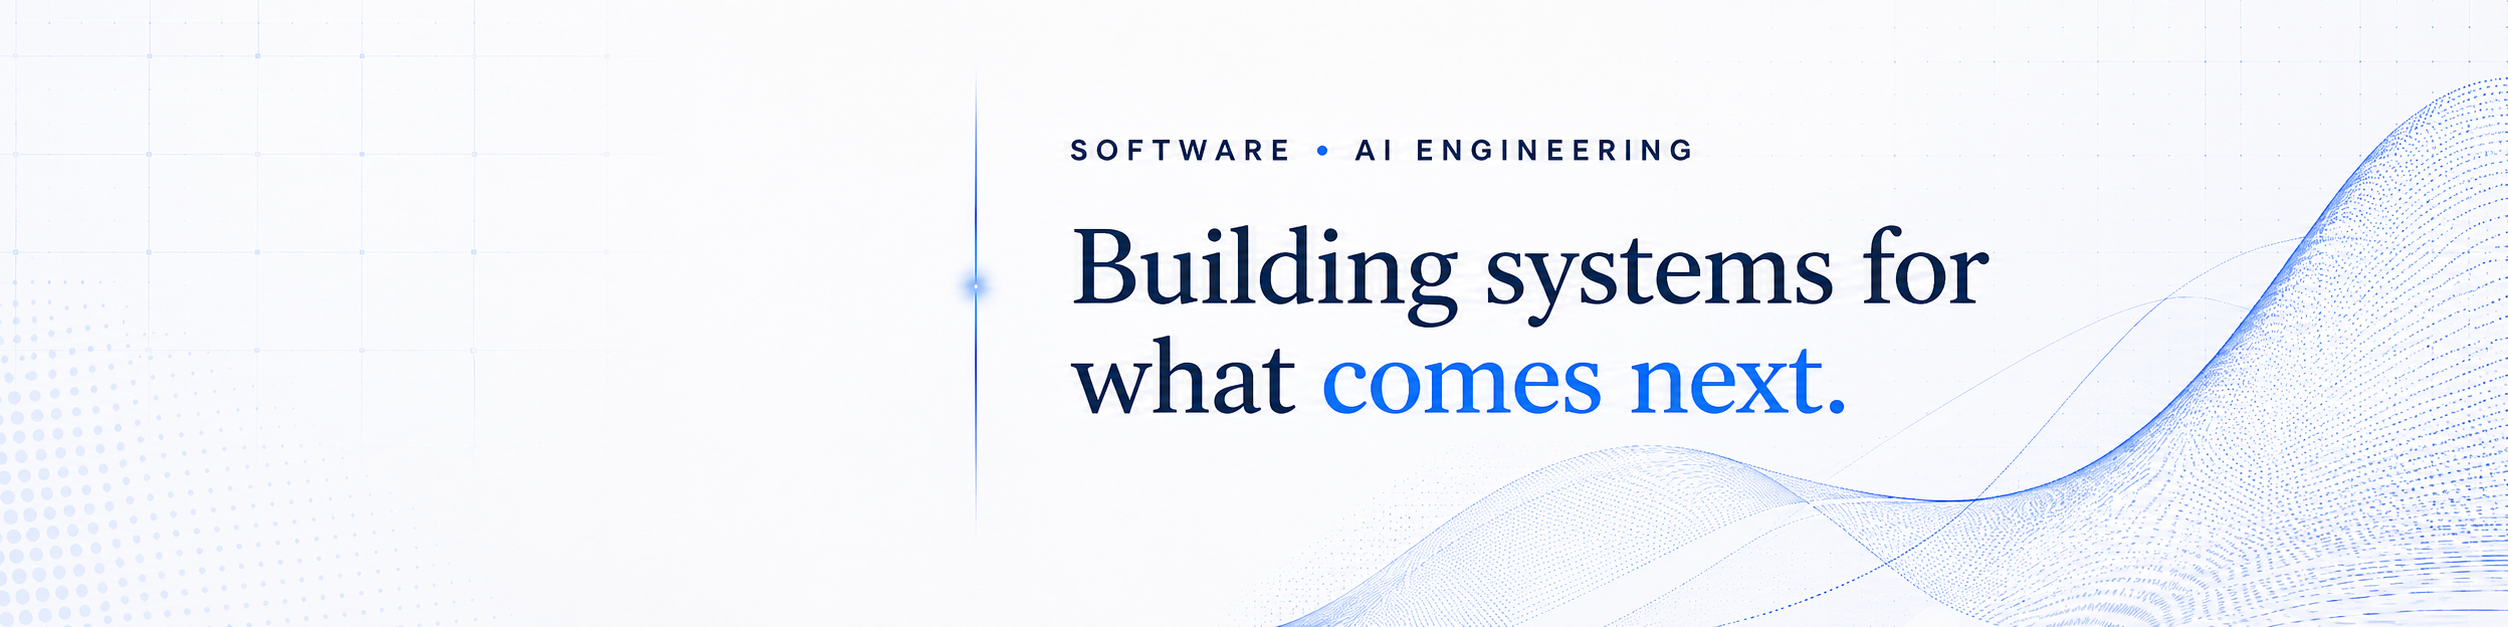
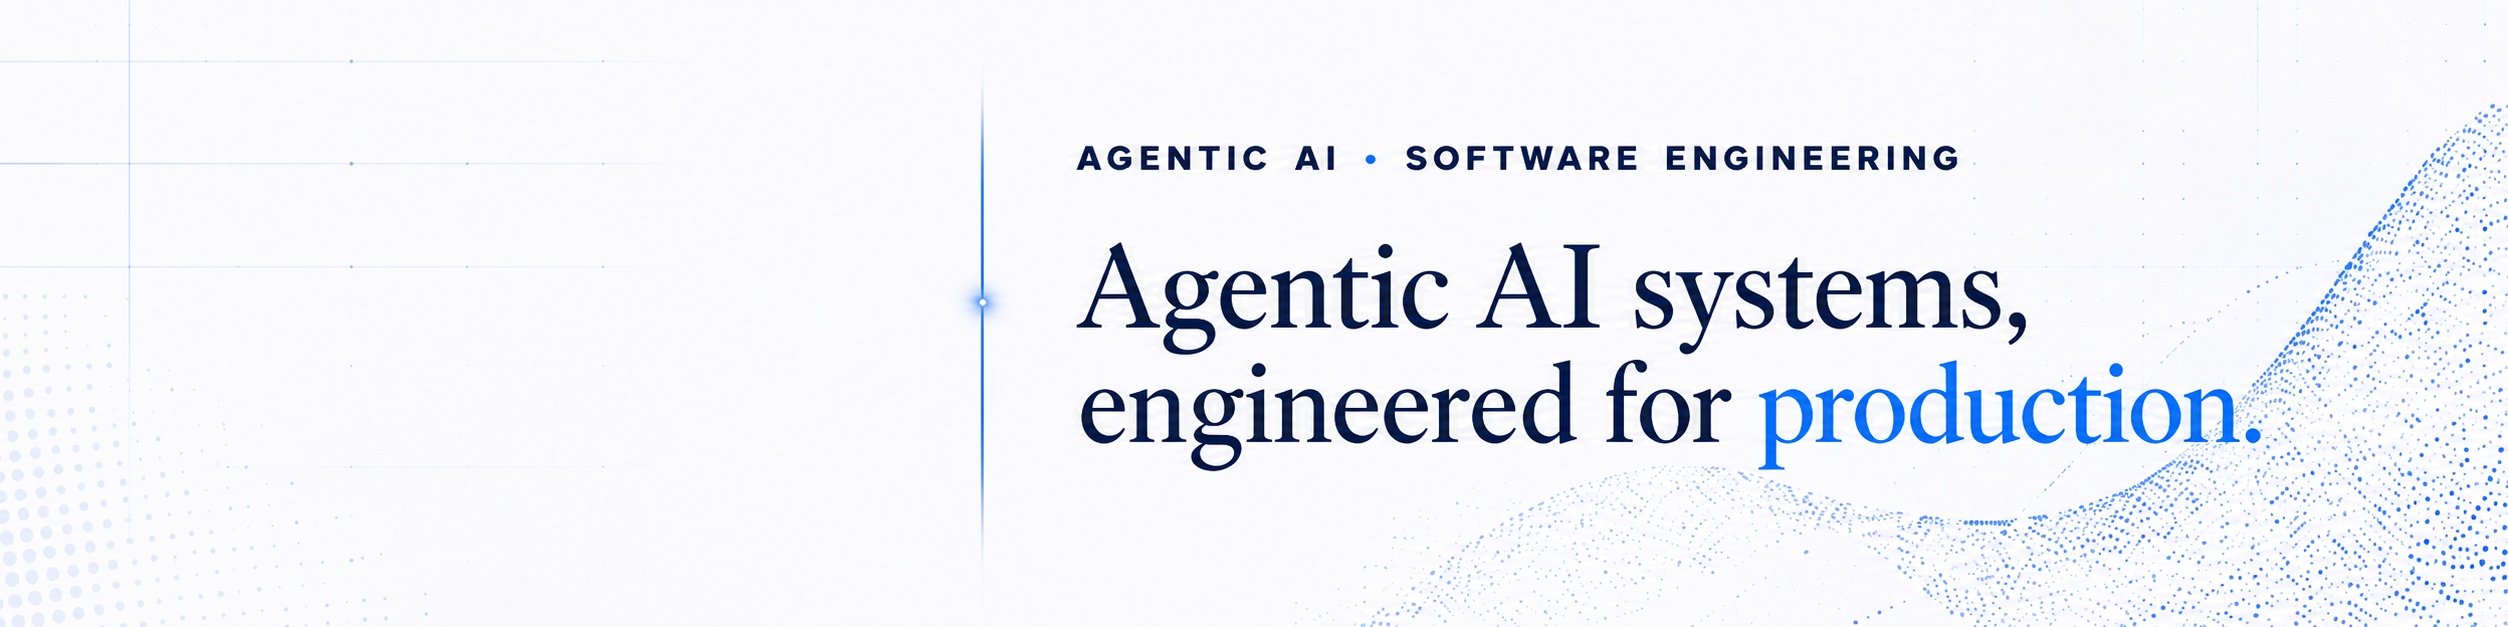
website update

Changed region(s): [[0.3732, 0.1212, 1.0, 1.0], [0.4043, 0.2121, 0.7775, 0.2727], [0.0, 0.9091, 0.0311, 0.9697]]

diff --git a/index.html b/index.html
@@ -912,32 +912,34 @@ class Component extends DCLogic {
 
     var listening = false;
     var savedText = '';
+    var finalTranscript = '';
 
     recognition.onstart = function() {
       listening = true;
       micBtn.classList.add('listening');
-      savedText = input.value;
+      savedText = input.value.trim();
+      finalTranscript = '';
     };
 
     recognition.onresult = function(e) {
-      var finalText = '';
       var interimText = '';
-      for (var i = 0; i < e.results.length; i++) {
+      for (var i = e.resultIndex; i < e.results.length; i++) {
         if (e.results[i].isFinal) {
-          finalText += e.results[i][0].transcript;
+          finalTranscript += e.results[i][0].transcript + ' ';
         } else {
           interimText += e.results[i][0].transcript;
         }
       }
-      var combined = savedText + (savedText && (finalText || interimText) ? ' ' : '') + finalText + interimText;
-      input.value = combined;
+      var prefix = savedText ? savedText + ' ' : '';
+      input.value = prefix + finalTranscript + interimText;
       input.dispatchEvent(new Event('input'));
     };
 
     recognition.onend = function() {
       listening = false;
       micBtn.classList.remove('listening');
-      savedText = input.value.trim(); // save so next session appends
+      savedText = input.value.trim();
+      finalTranscript = '';
     };
 
     recognition.onerror = function() {